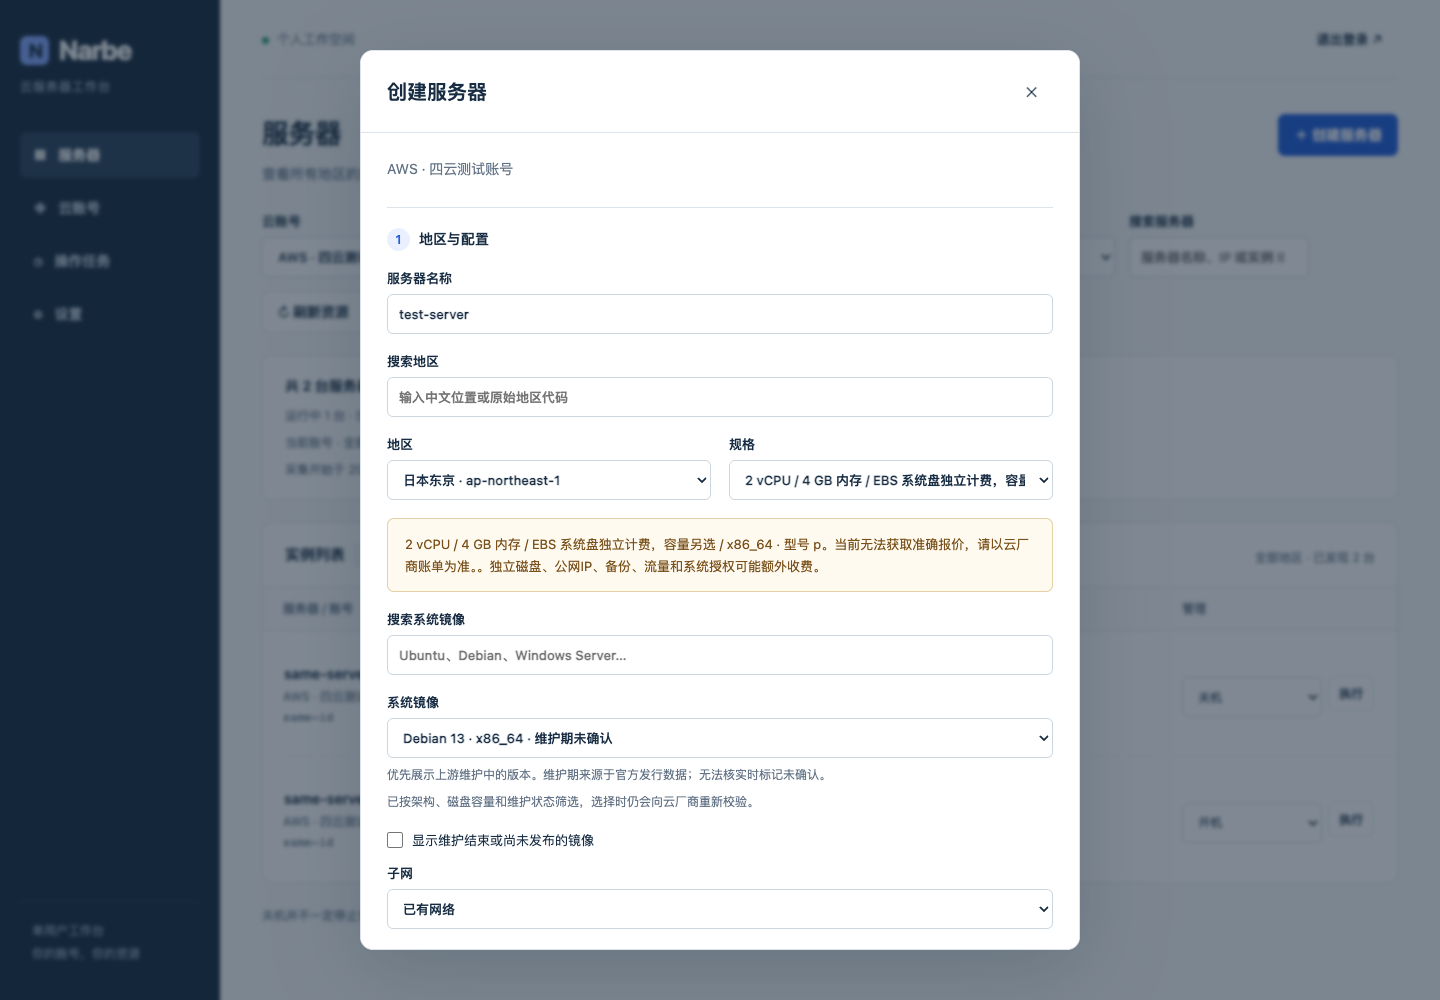
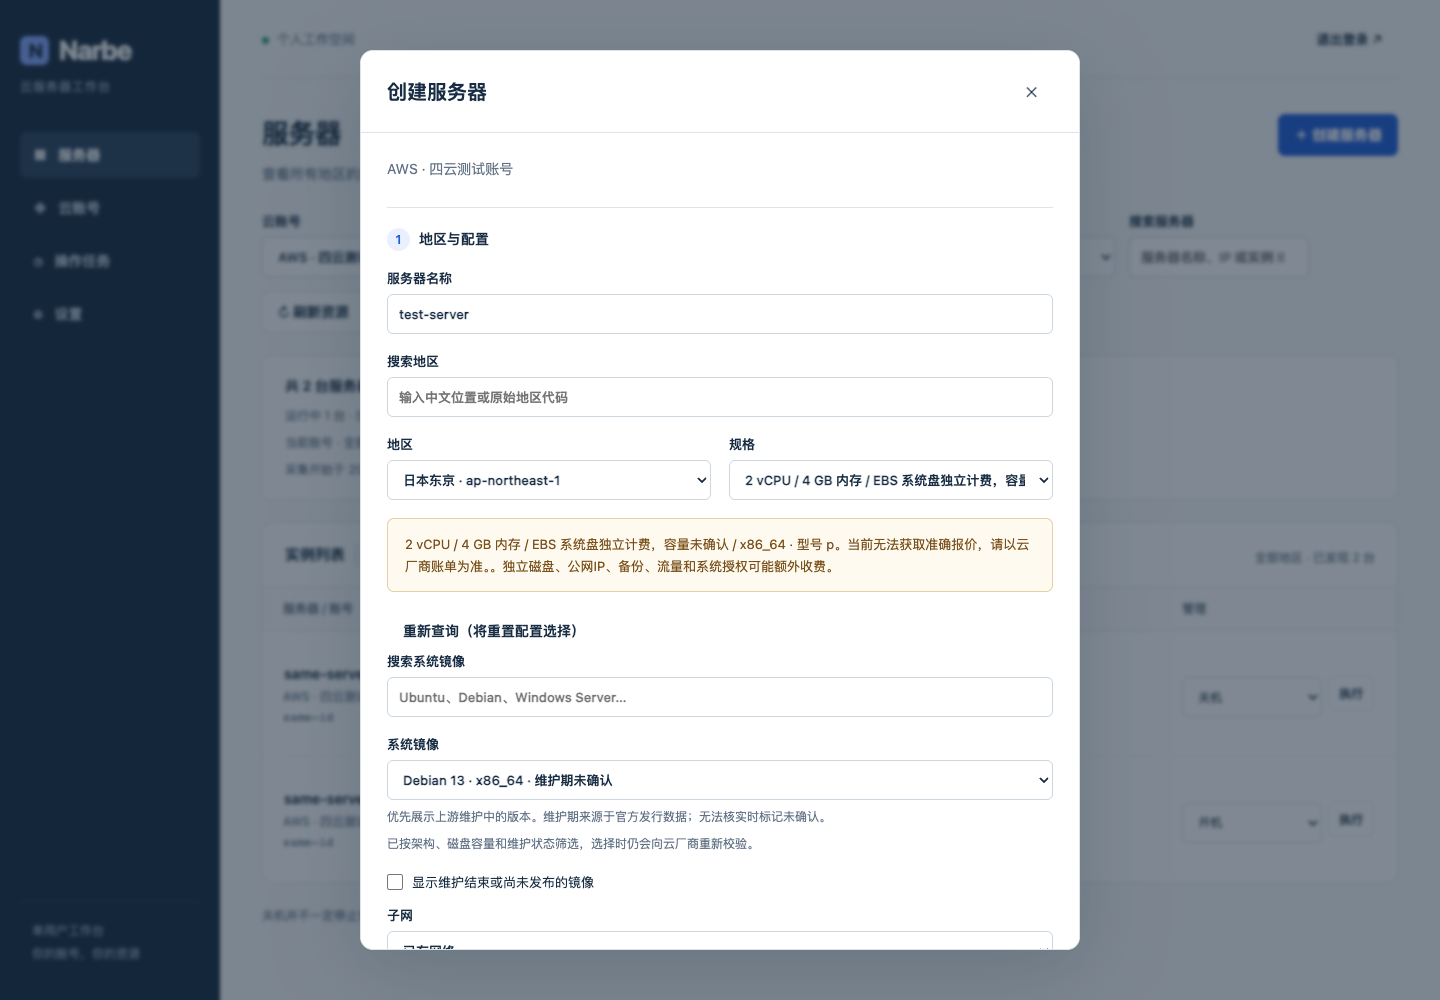
docs: record beta.2 candidate validation and formal review gate [skip ci]

Changed region(s): [[0.25, 0.527, 0.7188, 0.961]]

diff --git a/scripts/test_upgrade.py b/scripts/test_upgrade.py
@@ -50,7 +50,10 @@ with tempfile.TemporaryDirectory(prefix='narbe-upgrade-') as tmp:
         backup.mkdir(mode=0o700)
         compose('cp','narbe:/data',str(backup/'data'))
         key=hashlib.sha256((backup/'data/master.key').read_bytes()).hexdigest()
-        db=sqlite3.connect('file:'+str(backup/'data/narbe.db')+'?mode=ro',uri=True)
+        # This is a private stopped-container COPY, never the source volume.
+        # Allow SQLite to create WAL/SHM sidecars (macOS cannot open this WAL
+        # database read-only when those files do not yet exist).
+        db=sqlite3.connect('file:'+str(backup/'data/narbe.db')+'?mode=rw',uri=True)
         settings=db.execute('SELECT key,value FROM settings ORDER BY key').fetchall()
         accounts=db.execute('SELECT id,provider,credentials,revision,retired FROM accounts ORDER BY id').fetchall()
         db.close()

diff --git a/docs/BETA2_DELIVERY.md b/docs/BETA2_DELIVERY.md
@@ -1,16 +1,16 @@
 # beta.2 四云统一体验候选交付
 
-状态：实现与本地自动化验证完成；Docker/CI验证正在补齐。正式独立审核 REQUIRED / PENDING，beta.2尚未发布，不能宣称最终PASS。Owner现有服务器仍为beta.1，未修改其HTTP/HTTPS、服务容器或正式Volume；beta.1公开Tag/镜像不变。
+状态：实现、本地与远端CI、双架构原生Docker运行/升级验证完成；正式复审待上游安排。正式独立审核 REQUIRED / PENDING，beta.2尚未发布，不能宣称最终PASS。Owner现有服务器仍为beta.1，未修改其HTTP/HTTPS、服务容器或正式Volume；beta.1公开Tag/镜像不变。
 
 ## 实际行为
 
 - 云账号自动异步统计真实云端当前访问范围内的服务器数量、运行/关机/其他状态、采集区间、查询完整性。服务器页默认全部地区，账号/地区/状态/名称/IP筛选、详情和每页50行。
 - AWS：DescribeRegions获取已启用地区，3并发地区逐页DescribeInstances，限速/5xx最多3次退避；失败地区保留清单及已成功结果，可单独重试。DescribeInstanceTypes批量补CPU/内存/架构/本地存储，元数据失败不隐藏实例。
-- Azure：只查询当前接入资源组VM列表，明确非整个订阅；严格校验VM资源组ID，3并发地区读取电源/网络，SKU补配置。地区失败可重试，外部资源组返回项不会计入总数。
+- Azure：只查询当前接入资源组VM列表，明确非整个订阅；严格校验VM资源组ID，3并发地区读取电源/网络，SKU补配置。可选NIC/PIP权限不足保留已确认VM及数量、标注网络详情未知；严格Instances实时管理预检不放宽。地区失败可重试，外部资源组返回项不会计入总数。
 - Linode/DO：官方账号级完整分页，地区只是客户端筛选；Linode specs与类型/地区价格、DO size配置/小时/月USD价格。公网IP过滤私有地址。查询失败或超限不冒充零台。
-- 只读缓存：最多8个账号、2个扫描、90秒整体期限；15秒手动刷新节流，ready缓存从完成起60秒。局部重试独立保留首次全量完成锚点，过期自动升级全量查询，避免无限延长旧成功地区。每账号绑定credential revision，轮转/退休取消旧扫描，完成的云任务使旧缓存失效。
+- 只读缓存：最多8个账号、2个扫描、90秒整体期限；15秒手动刷新节流，ready缓存从完成起60秒。局部重试独立保留首次全量完成锚点，过期自动升级全量查询，避免无限延长旧成功地区。浏览器只保留当前账号完整明细，其他账号只保留摘要，避免切换账号累积资源列表。每账号绑定credential revision，轮转/退休取消旧扫描，完成的云任务使旧缓存失效。
 - 中文地区使用明确官方映射，原始ID不变；未确认/新地区保留官方名和代码。列表/创建/详情/筛选/危险确认一致。
-- 创建表单显示CPU/内存/磁盘/架构和可确认价格，核对摘要含账号/地区/系统/网络/费用；切地区清空旧配置并取消/忽略旧响应。AWS EBS/Azure Managed Disk不伪装成套餐固定系统盘。未知报价不显示免费。
+- 创建表单显示CPU/内存/磁盘/架构和可确认价格，核对摘要含账号/地区/系统/网络/费用；切地区清空旧配置并取消/忽略旧响应；目录查询失败可在当前地区重试。AWS EBS/Azure Managed Disk不伪装成套餐固定系统盘。未知报价不显示免费。
 - HTTP弹窗使用getRandomValues构造UUID v4兼容，缺少CSPRNG明确失败；同一弹窗重试ID不变。管理操作捕获账号ID、实例原始地区/资源ID；服务端原确认和worker实时预检不消费显示缓存。
 - 服务器与任务状态分开中文显示，Azure资源就绪不冒充电源运行；Azure仅关机保留计算分配明确提示仍计费。
 
@@ -38,20 +38,40 @@
 
 ## 发布门禁与待补证据
 
-Docker构建、旧版升级、最终镜像/磁盘清理和远端CI结果在本轮结束前回填。本轮新beta.2尚无发布digest或Tag，不可冒称已发布。
+应用及最终镜像源码提交：`0980c039a6f32c07c4787bb76119f3eea38b5b1f`。该提交 [Push CI](https://github.com/pixingzoudaiyuexing/Narbe/actions/runs/38574287186) 与 [PR CI](https://github.com/pixingzoudaiyuexing/Narbe/actions/runs/38574296553) 均success。原生Linux AMD64 CI执行完整race/vet/合同/浏览器/漏洞检查、Docker构建/运行和实际beta.1→候选升级。本地原生Linux ARM64 Docker执行同等健康/首次登录/密码持久化与升级检查。**这是候选构建验证，非beta.2 GHCR发行验证。**
+
[1 lines of base64/hex data omitted]
+
+实际Compose升级在专用一次性Volume中，先运行公开beta.1 pinned digest，修改管理员密码、写入**加密的非真实凭据测试账号**，再以候选镜像升级并强制重建。逐项比较master.key、settings/密码及非空账号credential行完全一致；旧密码拒绝、新密码成功、健康及只读root/cap-drop/no-new-privileges/5m×3日志配置正确。测试未调用云资源接口。
+
+收尾仅修正测试脚本macOS兼容：停机后复制到私有临时目录的SQLite副本允许创建WAL/SHM辅助文件（mode=rw）；原Volume不变。原mode=ro在本机读取缺失辅助文件的WAL数据库失败；相同副本改为rw后完整升级通过。Linux CI此前原脚本已通过。脚本修正单独本地重跑通过，不改变应用/镜像字节；最终证据提交使用skip ci避免文档/截图再触发无价值的全量构建。正式审核范围仍包括此脚本修正及全部diff。
+
+清理：本轮替代旧候选镜像均按精确ID回收；专用Builder及缓存删除，最后无容器/临时Volume/构建缓存；任务引入且无引用的BuildKit工具镜像约510 MB已删除。保留最终候选与beta.1回滚镜像；其他项目Rust镜像未触碰。Docker合计约2.248 GB（含其他项目），宿主可用约15 GiB。无全局prune、无正式Volume/数据库/key清理。临时探针、重复中间日志及提取二进制已清理，保留脱敏最终日志与红绿证据。
+
+本轮新beta.2尚无发布digest或Tag，不可冒称已发布。
 
 发布配置、中文Notes和beta.1无损升级命令已准备在release/。只有上游正式独立审核PASS后，Engineer才设置仓库变量NARBE_BETA2_REVIEWED_SHA到实际通过的提交；工作流严格比较应用、Dockerfile、脚本、工作流与可执行安装文件（仅允许Notes/README文字后补）。变量为空时构建/发布链跳过，不代表镜像发布成功；SHA无效或不匹配时失败关闭。随后仍须两架构原生构建、GHCR拉回安装验证、匿名拉取、Tag/Pre-release及digest证据，禁止覆盖beta.1或latest。
 
 正式Independent Reviewer需复核从v0.1.0-beta.1到本轮HEAD的全部diff，重点是聚合资源身份、缓存失效、部分失败与管理操作边界。内部只读Codex复核及agy均不替代正式审核。真实四云创建/删除E2E、原CloudPanel完整功能覆盖仍是缺口，Azure残留资源费用风险继续保留。
 
-agy Specialist Calls: 2
+agy Specialist Calls: 3（本次连续HTTP修复＋四云优化；beta.2子任务为2次）
 - Research Scout: 0
 - Root-Cause Challenger: 0
 - Design Challenger: 1（已完成）
 - Test Designer: 0
-- Embedded Reviewer: 1（150秒超时，无结论）
+- Embedded Reviewer: 2（前置HTTP修复120秒、beta.2 150秒均超时，无结论）
 
 Embedded Review Calls:
-1 / 0 completed / 1 failed / 0 re-review
+2 / 0 completed / 2 failed / 0 re-review
 
-另外完成两名内部Codex只读视角的正确性/安全/兼容性复核；两项Medium修复并源码复核关闭，不是Formal Independent Review。
+另外完成两名内部Codex只读视角的正确性/安全/兼容性复核；两项Medium修复并源码复核关闭，最后源码复核未发现新的High/Medium，不是Formal Independent Review。
+
+## 额外确定性红→绿证据
+
+- `TestInventorySlowCompletedScanRemainsReadable` / `TestInventoryExpiredPartialLineageForcesFullAWSRescan`：旧实现慢扫描第一次ready立即被新扫描替换、过期重试不重查成功地区；修复后通过。
+- `internal/cloud/inventory_backpressure_test.go`：暂停消费者时旧buffer造成第4个地区请求越过并发预算；无缓冲后最多3个未消费结果，恢复后12地区全部返回。
+- `TestAzureInventoryOptionalNetworkPermissionDoesNotHideKnownVM`：旧行为NIC403使已知VM计数为0；修复后1台且有网络未知警告，严格Instances仍返回权限错误。
+- `TestAWSBlankNameTagFallsBackToStableInstanceID`：临时移除空白Name判断后测试失败（name空白）；恢复判断后通过，ID/region不变。
+- 浏览器详情内存边界：临时恢复旧保留行为，返回账号时立即残留2行而期望0（等待重新取明细）；修复后通过。当前地区目录重试、过期列表标记与缺CSPRNG拒绝亦覆盖。
+
+复跑命令：`go test -race ./... -count=1`；`go vet ./...`；`NARBE_BROWSER_TEST=1 go test ./internal/app -run '^TestBrowser$' -count=1 -v -timeout=180s`；`node scripts/format-test.mjs`；`python3 scripts/test_build.py`（9项）；`python3 release/test_bundle.py`（3项）。镜像运行与升级使用scripts/test_runtime.py、scripts/test_upgrade.py及上文确定镜像。无已知未解决回归；此结论受已列明真实云与正式审核缺口限制。

diff --git a/docs/BETA2_SOURCES.md b/docs/BETA2_SOURCES.md
@@ -23,7 +23,7 @@
 
 成品工作台的局部增强：普通用户从云账号进入服务器总览，先判断资源数量与数据完整性，再按地区/状态/名称/IP定位；创建使用现有表单，重点配置在前、高级设置折叠，提交前展示摘要，危险操作仍名称确认。桌面/手机均保留搜索、筛选、刷新、错误及重试。沿用当前CSS/原生模块，不引入图表或前端运行时。
 
-账号总览异步只读扫描：进程内最多8个缓存账号、全局2个扫描；AWS每扫描3个并发地区，每地区15秒，整体90秒，最多100个地区和5000条展示实例；60秒缓存，手动刷新至少间隔15秒。缓存绑定account ID和凭据revision，不写入本地任务代替真实资源。失败地区可单独重试；账号级接口失败需重试账号范围。缓存不可作为管理操作授权，确认/worker仍读取实时身份。
+账号总览异步只读扫描：进程内最多8个缓存账号、全局2个扫描；AWS每扫描3个并发地区，每地区15秒，整体90秒，最多100个地区和5000条展示实例；ready缓存从完成起60秒，局部重试继承首次全量完成锚点，过期强制全量；手动刷新至少间隔15秒。浏览器仅保留当前账号完整明细，其余账号保留摘要。缓存绑定account ID和凭据revision，不写入本地任务代替真实资源。失败地区可单独重试；账号级接口失败需重试账号范围。缓存不可作为管理操作授权，确认/worker仍读取实时身份。
 
 AWS只汇总已启用且访问成功的EC2地区；无权/超时/限速地区明确失败，不从分母消失。Azure只声明当前接入资源组，不能冒充整个订阅。Linode/DO账号级分页，完整查询后才能确认零台。
 
@@ -32,3 +32,5 @@ AWS只汇总已启用且访问成功的EC2地区；无权/超时/限速地区明
 正式独立审核 REQUIRED；完成实现和证据后交上游安排，未通过前不创建beta.2 Tag、不发布beta.2镜像、不合并main、不更改Owner网络配置。
 
 状态与计费说明核对：AWS https://docs.aws.amazon.com/AWSEC2/latest/UserGuide/ec2-instance-lifecycle.html；Azure https://learn.microsoft.com/en-us/azure/virtual-machines/states-billing；Linode https://techdocs.akamai.com/linode-api/reference/get-linode-instance；DO https://docs.digitalocean.com/products/droplets/reference/api/droplets/ 。服务器电源状态与任务状态使用独立中文标签，Azure provisioning succeeded 不冒充运行中。
+
+Azure inventory 可选 NIC/PIP 读取失败保留已确认 VM 及数量、警告网络信息不完整；实时管理预检仍严格读取，不允许显示容错削弱权限校验。
